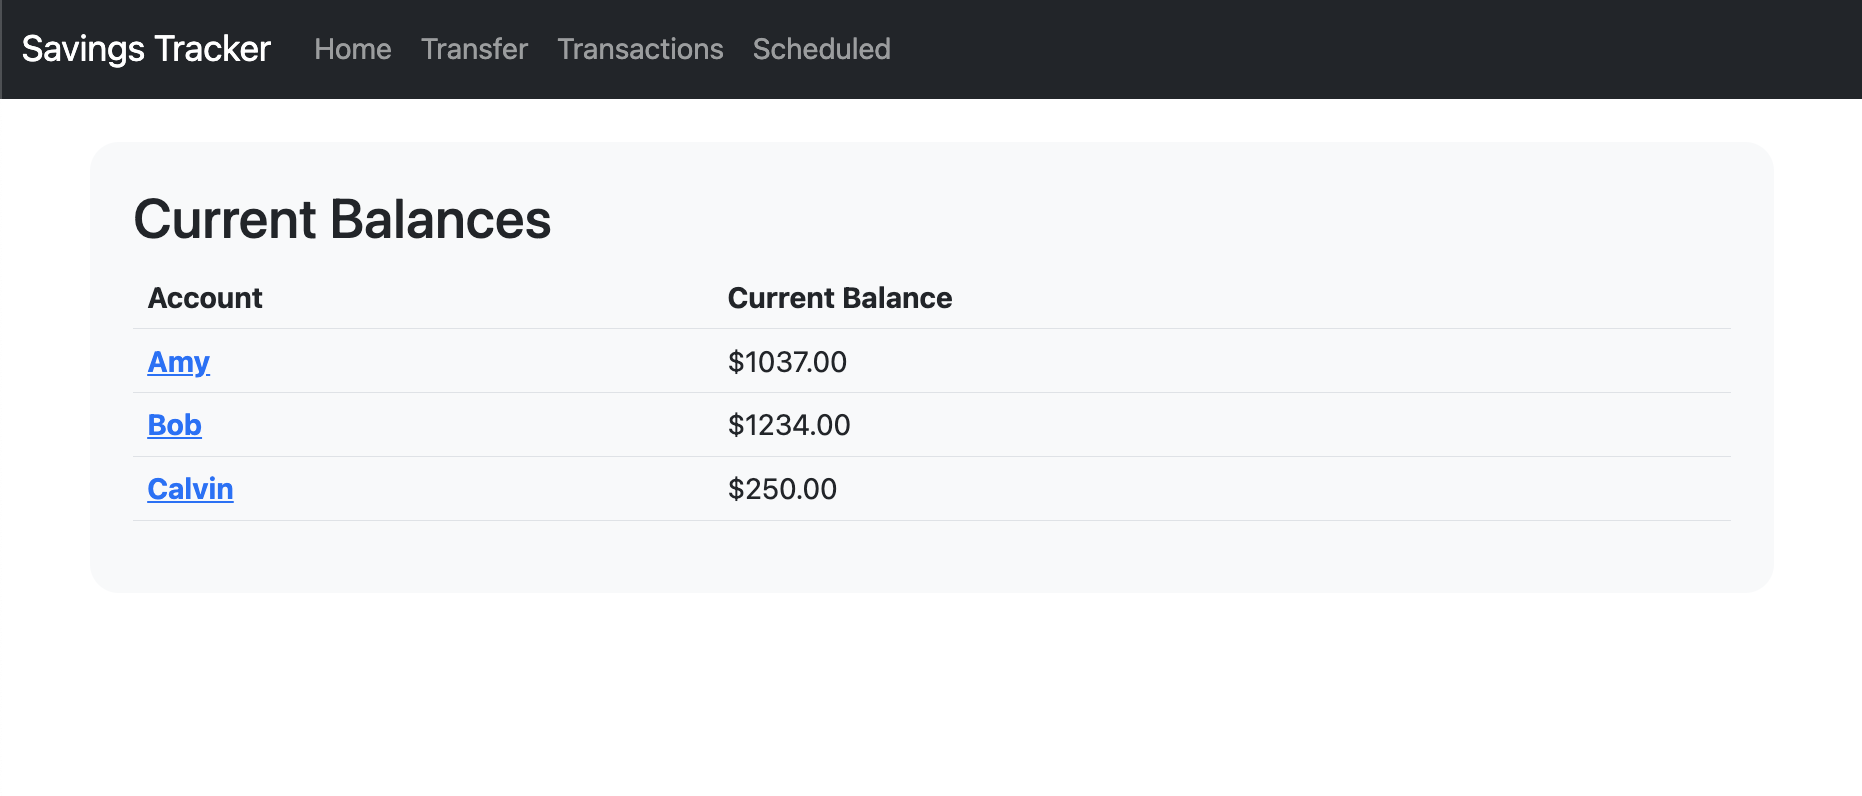
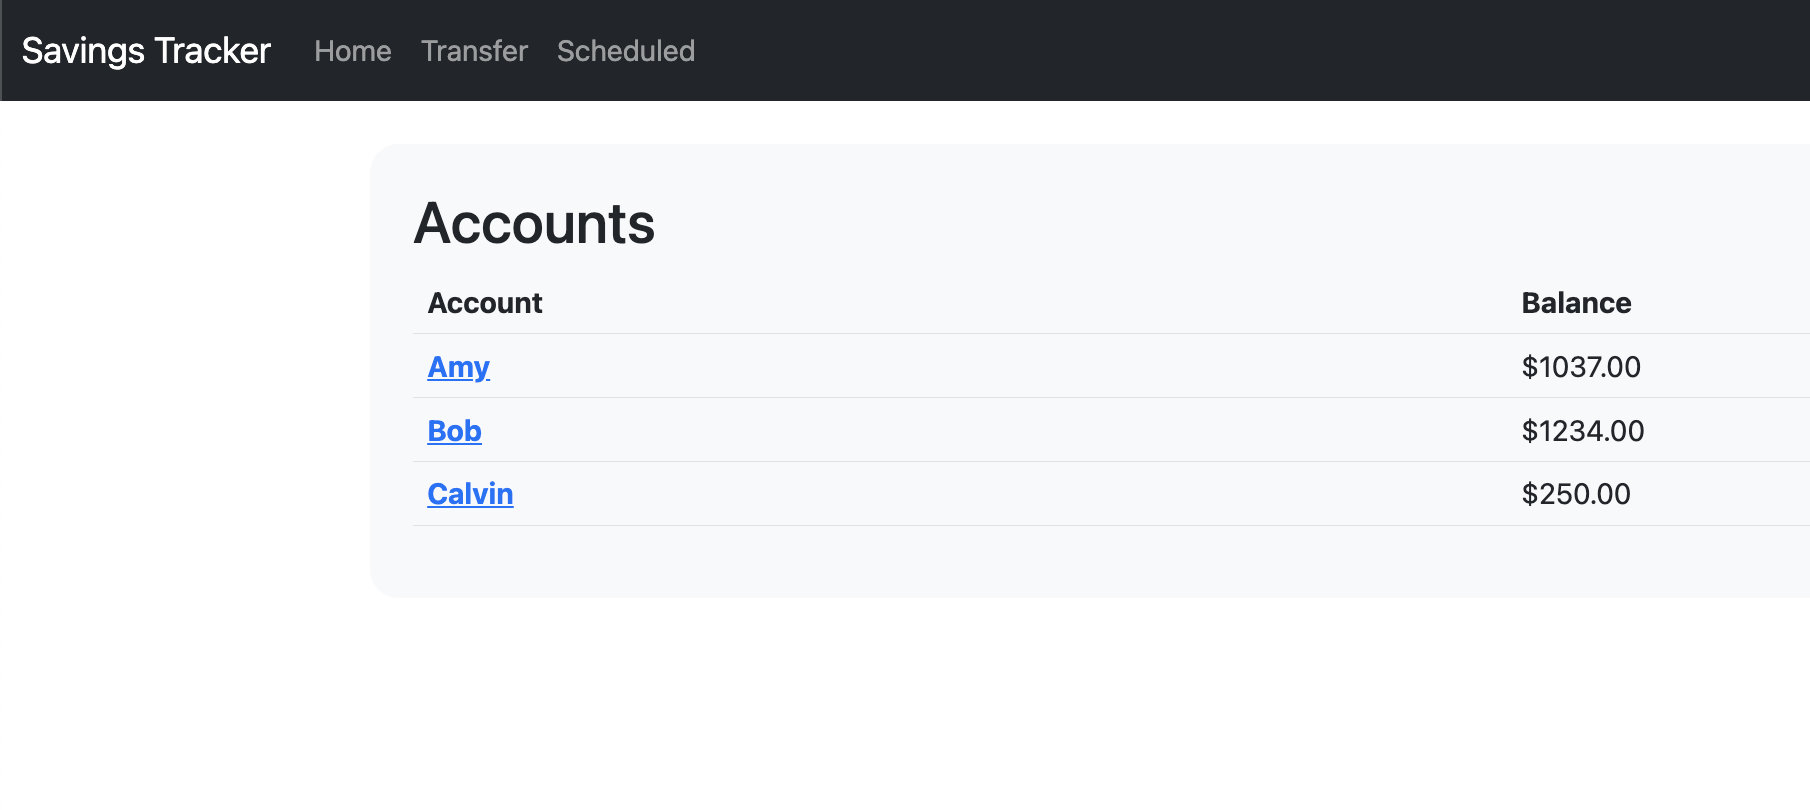
README updates for new structure [skip ci]

diff --git a/README.md b/README.md
@@ -37,11 +37,11 @@ Thanks to Bootstrap, the look and feel is simple, but clean. Both desktop and mo
 ### Homepage
 <img src="https://github.com/kvecchione/savings-tracker/blob/main/docs/images/home.png?raw=true" width="500">
 
+### Account Page
+<img src="https://github.com/kvecchione/savings-tracker/blob/main/docs/images/account.png?raw=true" width="500">
+
 ### Transfers
 <img src="https://github.com/kvecchione/savings-tracker/blob/main/docs/images/transfer.png?raw=true" width="500">
-
-### Transaction List
-<img src="https://github.com/kvecchione/savings-tracker/blob/main/docs/images/transactions.png?raw=true" width="500">
 
 ### Scheduled Transfers
 <img src="https://github.com/kvecchione/savings-tracker/blob/main/docs/images/scheduled.png?raw=true" width="500">
